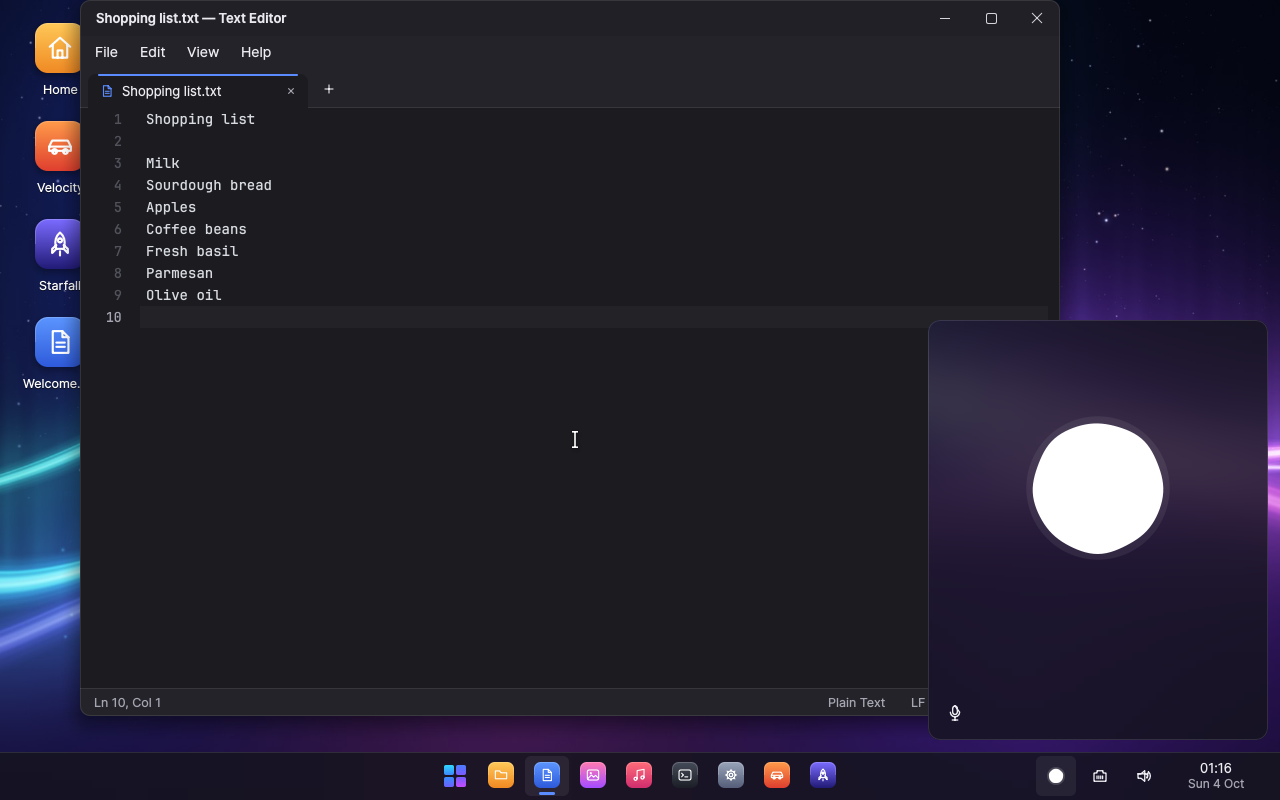
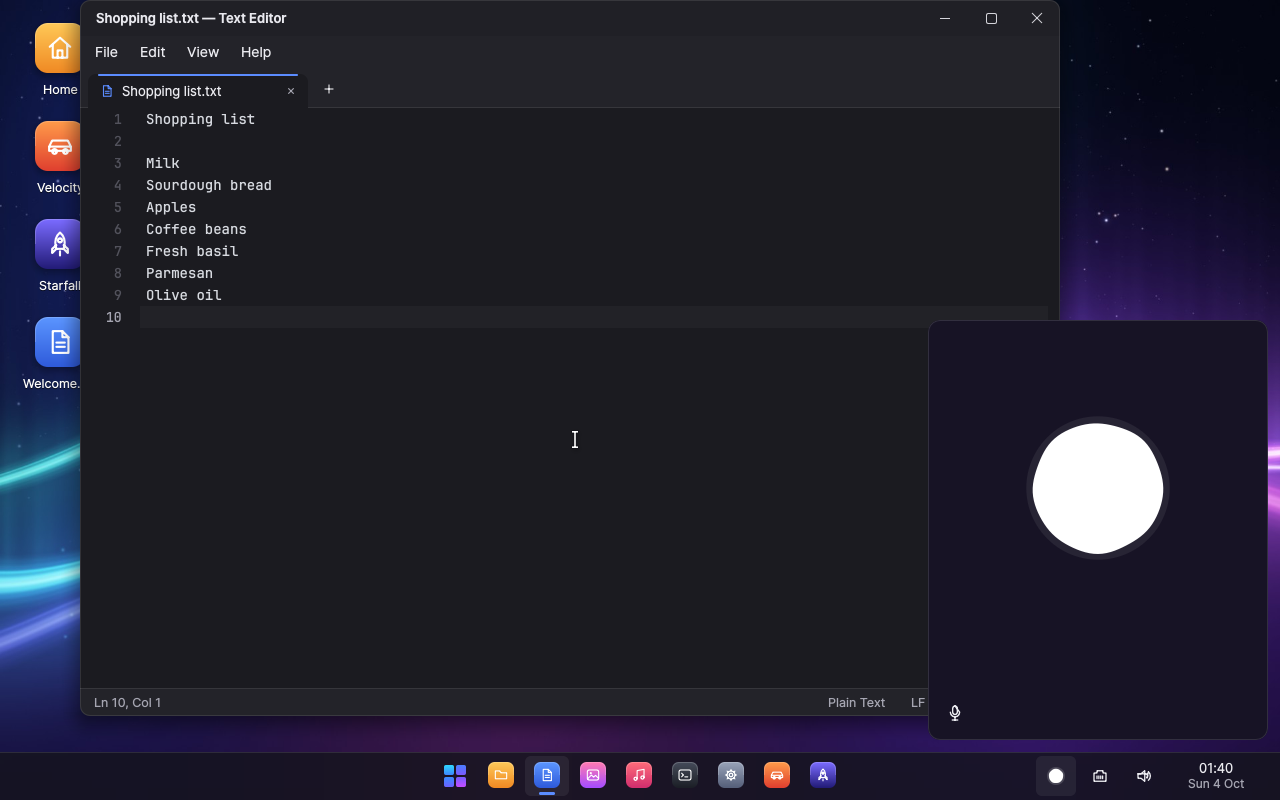
fix(shell): give the agent's window the taskbar's colour

Changed region(s): [[0.7188, 0.4375, 1.0, 0.6562], [0.9375, 0.9375, 0.9688, 0.9688]]

diff --git a/apps/shell/src/chrome.rs b/apps/shell/src/chrome.rs
@@ -15,6 +15,31 @@ pub fn mica(c: &mut Canvas, blurred: &Bitmap, origin: (i32, i32), tint: Color) {
     c.fill_rect(r, tint);
 }
 
+/// The colour a mica surface over `area` of the screen has on average:
+/// `tint` over the blurred wallpaper there (sampled sparsely).
+pub fn mica_color(blurred: &Bitmap, area: Rect, tint: Color) -> Color {
+    let (mut r, mut g, mut b, mut n) = (0u64, 0u64, 0u64, 0u64);
+    let mut y = area.y.max(0);
+    while y < area.bottom().min(blurred.height) {
+        let mut x = area.x.max(0);
+        while x < area.right().min(blurred.width) {
+            let p = blurred.pixels[(y * blurred.width + x) as usize];
+            r += ((p >> 16) & 0xFF) as u64;
+            g += ((p >> 8) & 0xFF) as u64;
+            b += (p & 0xFF) as u64;
+            n += 1;
+            x += 8;
+        }
+        y += 4;
+    }
+    if n == 0 {
+        return tint;
+    }
+    let a = ((tint.0 >> 24) & 0xFF) as u64;
+    let mix = |t: u32, sum: u64| ((t as u64 * a + sum / n * (255 - a)) / 255) as u8;
+    Color::rgb(mix((tint.0 >> 16) & 0xFF, r), mix((tint.0 >> 8) & 0xFF, g), mix(tint.0 & 0xFF, b))
+}
+
 /// Standard popup background: mica, a hairline border and rounded corners.
 /// Call [`round_corners`] after drawing the content.
 pub fn popup_background(c: &mut Canvas, blurred: &Bitmap, origin: (i32, i32)) {

diff --git a/apps/shell/src/agent.rs b/apps/shell/src/agent.rs
@@ -240,7 +240,6 @@ pub fn draw_orb(ui: &mut Ui, r: Rect, a: &AgentModel, t: f32) {
 
 /// The agent's window.
 pub struct AgentWindow {
-    origin: (i32, i32),
     /// "Always allow" ticked on the approval being shown.
     always: bool,
     started: u64,
@@ -265,14 +264,18 @@ pub fn approval_title(ui: &mut Ui, r: Rect, text: &str) -> i32 {
 }
 
 impl AgentWindow {
-    pub fn new(origin: (i32, i32)) -> AgentWindow {
-        AgentWindow { origin, always: false, started: vrt::time::now_ns() }
+    pub fn new() -> AgentWindow {
+        AgentWindow { always: false, started: vrt::time::now_ns() }
     }
 
     pub fn update(&mut self, ui: &mut Ui, m: &mut Model) {
         let th = ui.theme().clone();
         let (w, h) = (ui.width, ui.height);
-        chrome::mica(&mut ui.canvas, &m.wallpaper.blurred, self.origin, TINT);
+        // The taskbar's own colour (what the bar looks like where it is),
+        // not the wallpaper behind the window.
+        let bar = Rect::new(0, m.screen.h - taskbar::HEIGHT, m.screen.w, taskbar::HEIGHT);
+        let bg = chrome::mica_color(&m.wallpaper.blurred, bar, TINT);
+        ui.canvas.fill_rect(ui.rect(), bg);
         if ui.input.key(vproto::input::keys::ESC) {
             ui.close_window();
         }

diff --git a/apps/shell/src/main.rs b/apps/shell/src/main.rs
@@ -427,7 +427,7 @@ impl Shell {
         spec.app_id = "agent".into();
         match Host::new(&self.display, spec) {
             Ok(host) => {
-                self.agent_win = Some(Popup { host, ui: agent::AgentWindow::new((r.x, r.y)) });
+                self.agent_win = Some(Popup { host, ui: agent::AgentWindow::new() });
                 self.model.agent.window_open = true;
                 // Approvals now appear in the window.
                 self.notes.remove_approvals(self.model.screen);
